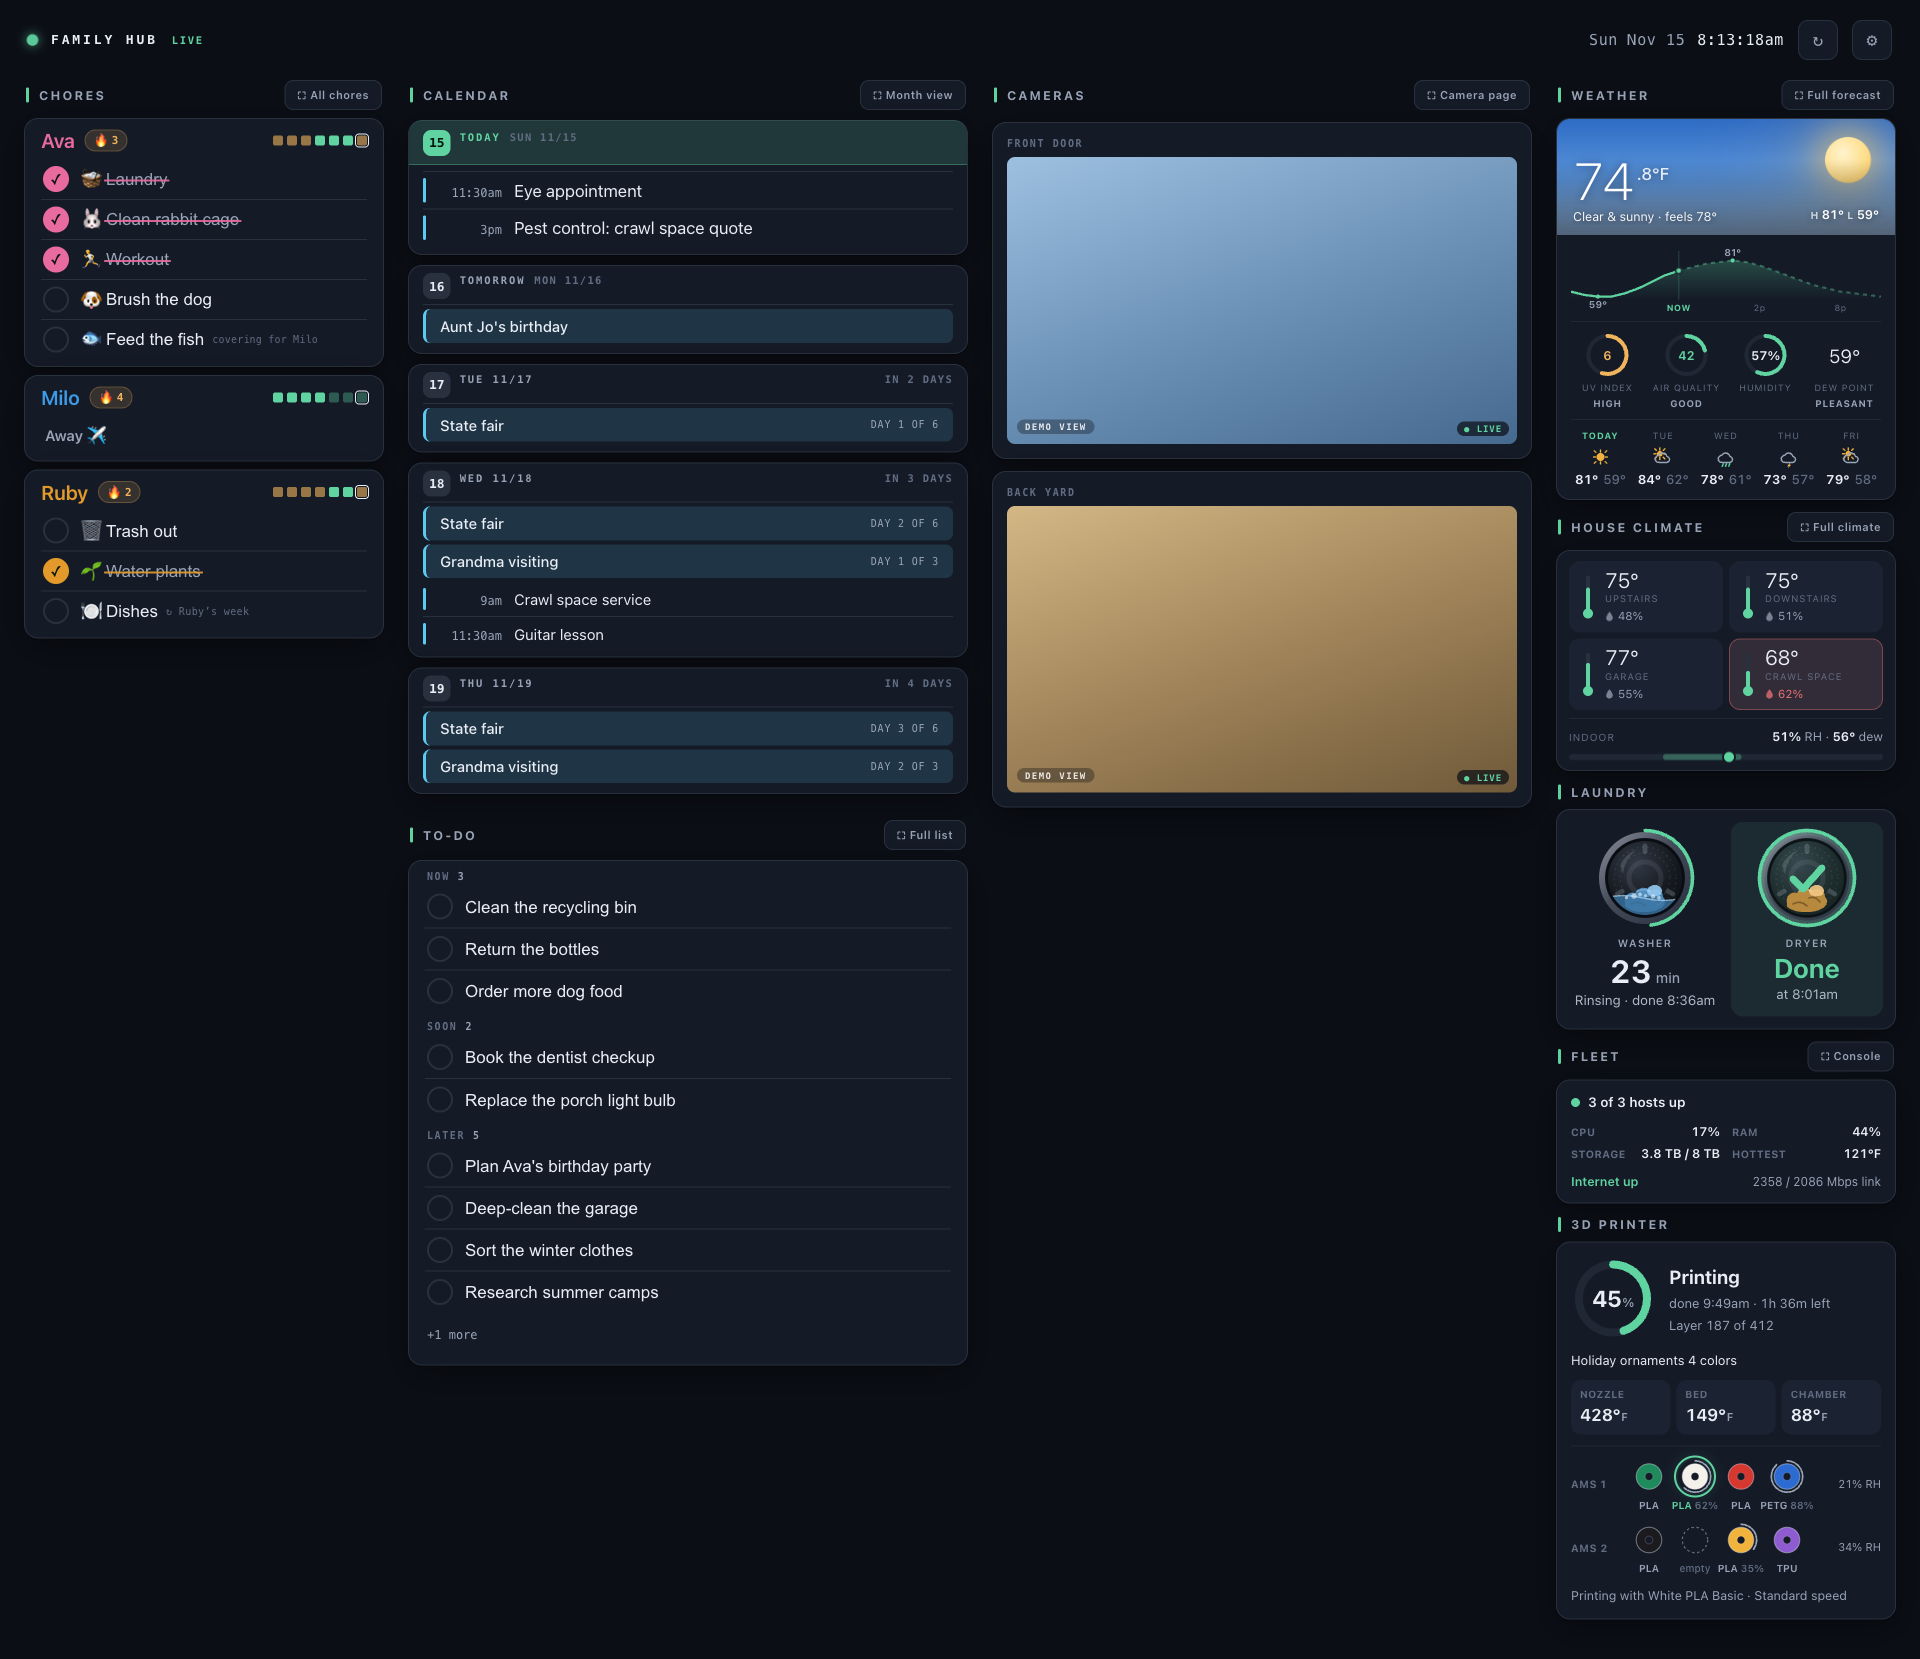
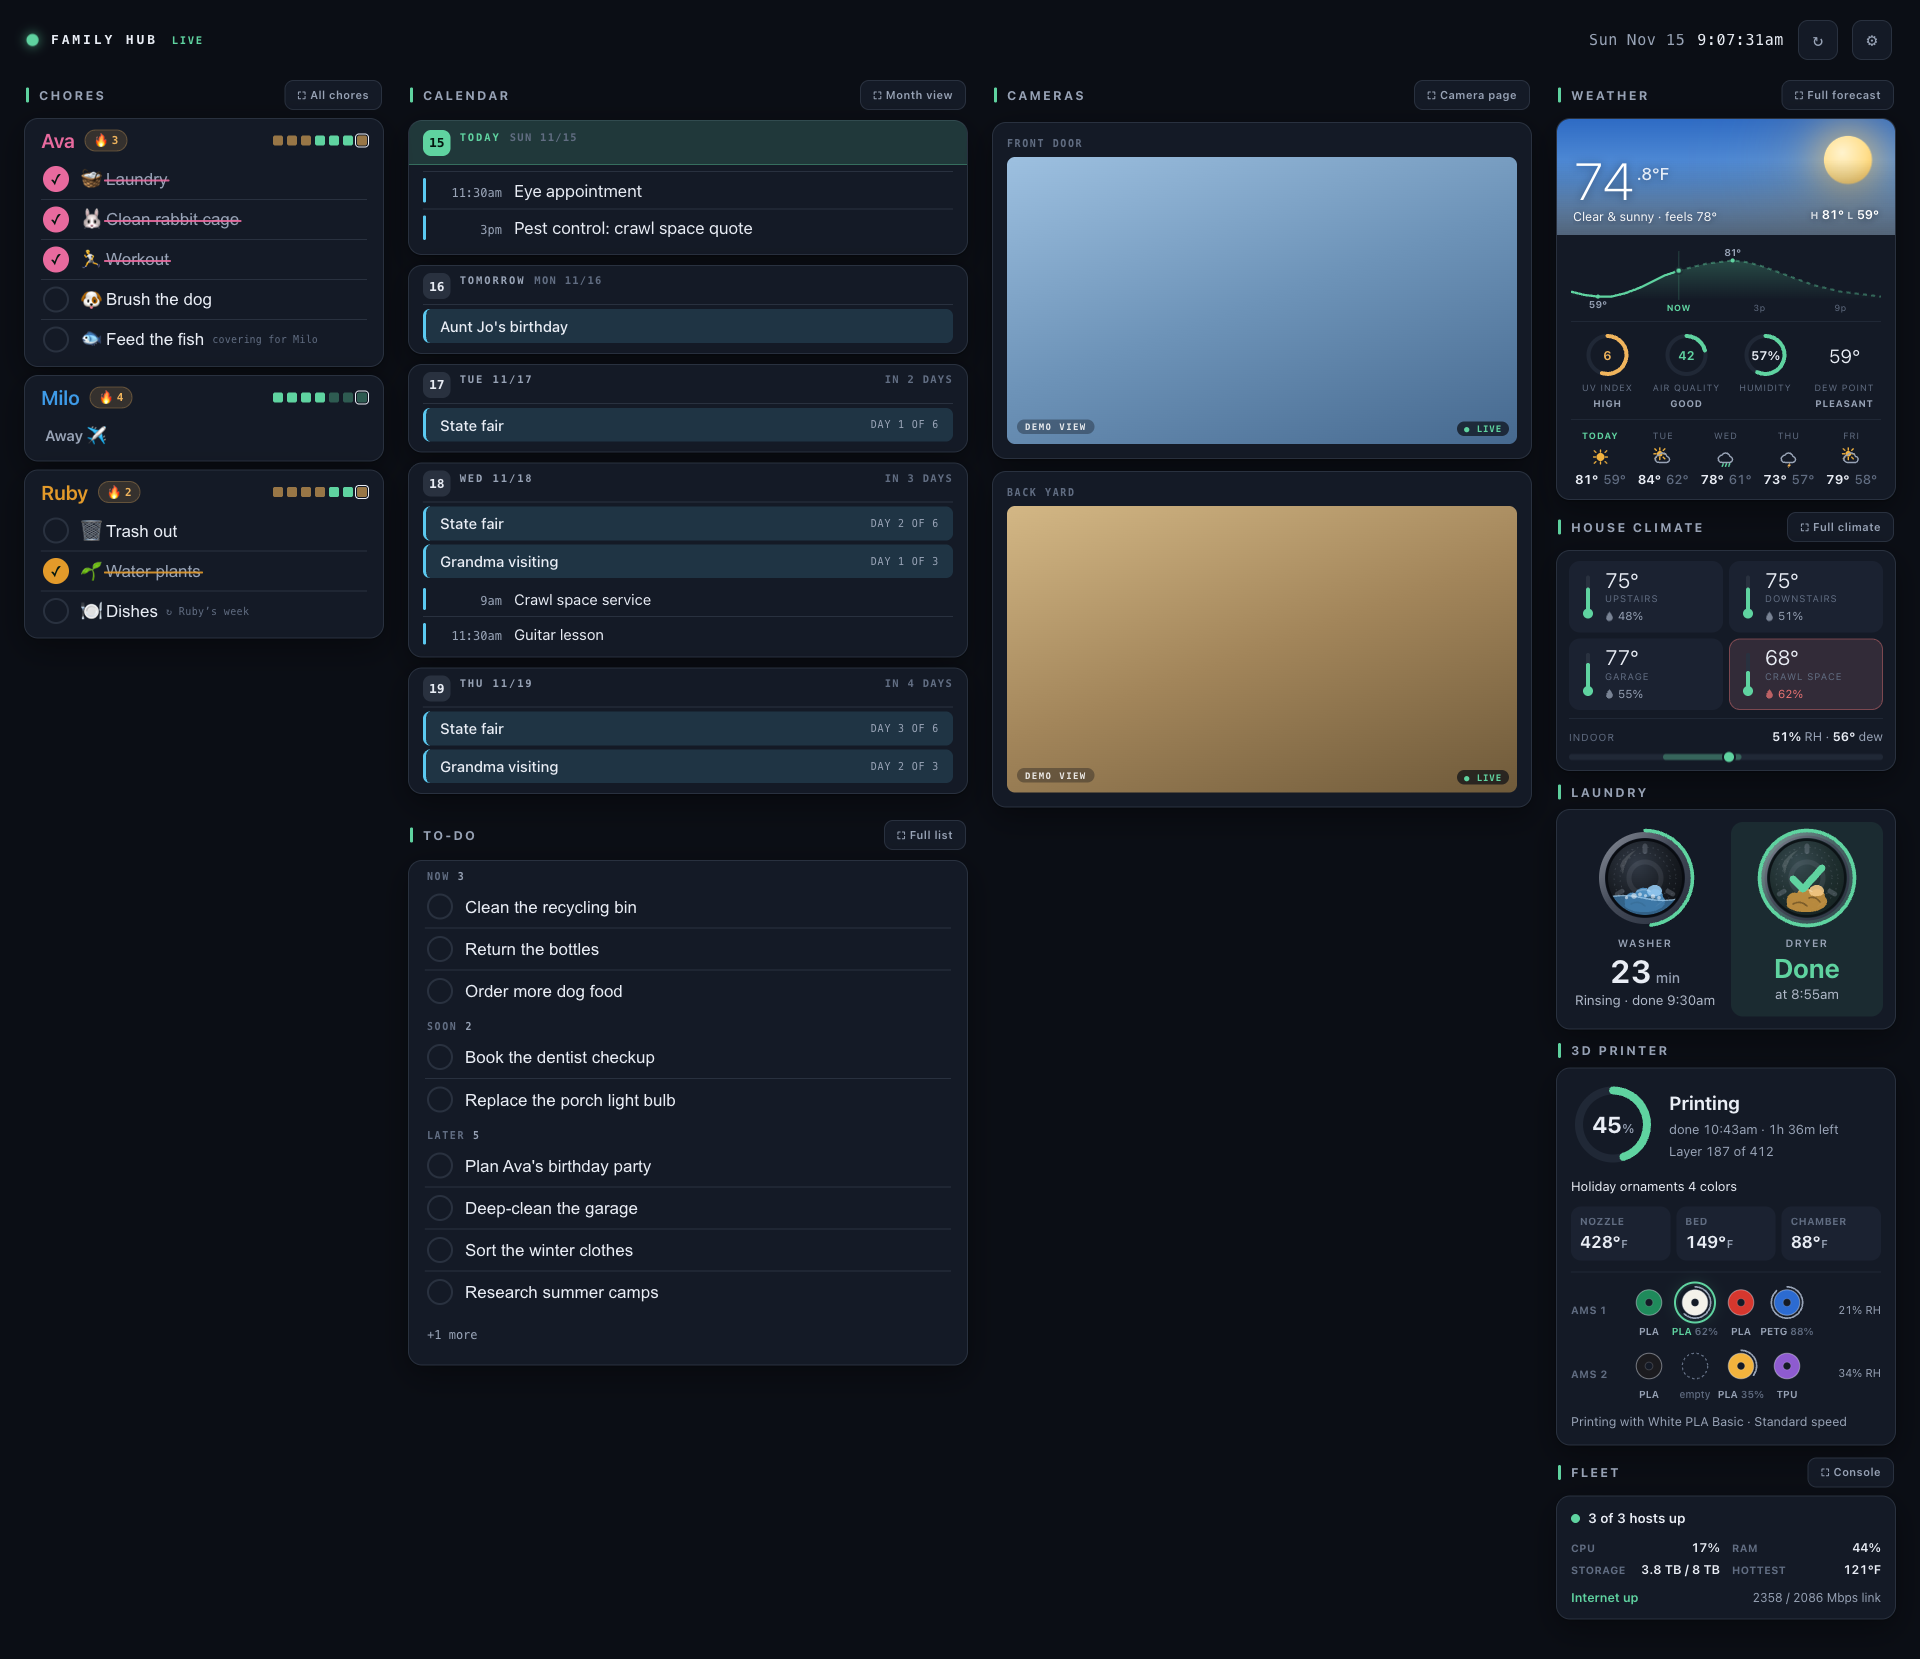
Printer card above the Fleet card
Owner's call: the printer is the card the family reads, so it sits above
the admin's Fleet card in the panels column (and on the phone's Weather
tab). The static guard pins the new order; README, CHANGELOG and
docs/hub.png follow.

Claude-Session: https://claude.ai/code/session_01VyTzhBxGcG27dAq1t99pnz

Changed region(s): [[0.8125, 0.6148, 1.0, 0.9837]]

diff --git a/src/family_hub/web/static/hub.js b/src/family_hub/web/static/hub.js
@@ -2743,13 +2743,15 @@ function buildPanels() {
       // covers its native card, appended once regardless of this entry.
       if (p.id === 'fleet') return '';
       return panelHtml(p);
-    }).join('') + laundrySlotHtml() + fleetSlotHtml() + printerSlotHtml();
+    // the printer sits ABOVE fleet (owner, 2026-11-15): it's the card the
+    // family reads; fleet is the admin's
+    }).join('') + laundrySlotHtml() + printerSlotHtml() + fleetSlotHtml();
   panelsBuilt = true;
   renderWeather();   // fill the just-built weather slot from cached data (if any)
   renderClimate();   // fill the just-built climate slot from cached data (if any)
   renderLaundry();   // fill the just-built laundry slot from cached data (if any)
-  renderFleet();     // fill the just-built fleet slot from cached data (if any)
-  renderPrinter();   // ...and the printer card under it, from the same data
+  renderPrinter();   // fill the just-built printer slot from cached data (if any)
+  renderFleet();     // ...and the fleet card under it, from the same data
 }
 
 function wirePanels() {
@@ -4075,7 +4077,7 @@ async function fetchFleet() {
 
 /* ---------------------------------------------------- native printer card */
 
-/* The 3D printer gets its own card under Fleet (owner's pick, 2026-11-15):
+/* The 3D printer gets its own card, above Fleet (owner's pick, 2026-11-15):
    a progress ring, when it will be done, layers, the three temperatures,
    and every AMS spool drawn in its real filament color with the one feeding
    the nozzle lit. It reads the same /api/tiles/fleet payload as the fleet
@@ -4330,7 +4332,7 @@ function printerCardHtml(fl, stale = false, now = Date.now()) {
     + `</article>`;
 }
 
-/* The printer slot rides the panels column right under Fleet, built
+/* The printer slot rides the panels column right above Fleet, built
    unconditionally like the fleet slot (an outage never freezes it away). */
 function printerSlotHtml() {
   return `<div class="printer-slot" id="printer-slot"></div>`;

diff --git a/src/family_hub/web/static/styles.css b/src/family_hub/web/static/styles.css
@@ -997,7 +997,7 @@ body {
 /* a stale last-good card is visibly dimmed (this is a health monitor — a
    riding-out-a-failure card must never look as pristine as a live one) */
 .fleet.is-stale { opacity: .62; }
-/* ------- native printer card (its own card under fleet, 2026-11-15) ------- */
+/* ------- native printer card (its own card above fleet, 2026-11-15) ------- */
 /* No motion by design: the ring and the spool rings are plain dash values,
    so there is nothing for prefers-reduced-motion to guard and nothing for
    the wall's Firefox to keep repainting. Every color is a theme token

diff --git a/tests/test_static.py b/tests/test_static.py
@@ -1383,7 +1383,7 @@ def test_fleet_card_static_guards():
     fc = re.search(r"function fleetCardHtml\(", hub)
     assert fc and "printer" not in hub[fc.start():hub.index("\n}\n", fc.start())].replace(
         "printerCardHtml", ""), "fleetCardHtml must not render printer data"
-    # the wall places fleet directly under laundry in the panels column
+    # the wall places fleet under laundry and the printer card in the panels column
     # (owner's placement intent); the phone rides the Weather tab since it
     # has no tab of its own ("no new tab" per the mobile gate) — the fleet
     # slot must NOT be excluded from the Weather tab the way laundry is.
@@ -1392,15 +1392,15 @@ def test_fleet_card_static_guards():
 
 
 def test_printer_card_static_guards():
-    """The printer card (its own card under fleet, 2026-11-15): its own
-    off-toggle hides it, its slot is built unconditionally right after the
+    """The printer card (its own card above fleet, 2026-11-15): its own
+    off-toggle hides it, its slot is built unconditionally right before the
     fleet slot, it repaints on every fleet poll, it keeps the panels column
     and the phone Weather tab alive on its own, and it never animates."""
     hub = (STATIC / "hub.js").read_text()
     assert re.search(r"body\.integ-off-printer[^\{]*#printer-slot[^\{]*\{[^}]*display:\s*none",
                      CSS), "printer-off must hide the printer slot"
-    assert "laundrySlotHtml() + fleetSlotHtml() + printerSlotHtml()" in hub, \
-        "the printer slot must be built unconditionally, right under fleet"
+    assert "laundrySlotHtml() + printerSlotHtml() + fleetSlotHtml()" in hub, \
+        "the printer slot must be built unconditionally, right above fleet (owner's order)"
     fetch = hub[hub.index("async function fetchFleet()"):]
     fetch = fetch[:fetch.index("\n}\n")]
     assert "renderPrinter();" in fetch, "every fleet poll must repaint the printer card"

diff --git a/README.md b/README.md
@@ -119,11 +119,11 @@ at one URL.
 - **Fleet Console:** an optional card proxying a separate home-lab dashboard's
   compact status rollup: a system-health line ("N of M hosts up", the worst
   problem in words when something's down), the vitals grid and the internet
-  line. Rides the panels column under Laundry on the wall and the Weather tab
+  line. Rides the panels column under the printer card on the wall and the Weather tab
   on the phone (no tab of its own). Tap **⛶ Console** to open the full
   dashboard full-screen, when configured. Fails soft like weather/climate;
   off entirely with no `fleet` config block.
-- **3D printer:** its own card under Fleet, from the same rollup (a Bambu Lab
+- **3D printer:** its own card above Fleet, from the same rollup (a Bambu Lab
   printer's live MQTT report, via the fleet console): a progress ring, when
   the print will be done, the layer count, nozzle / bed / chamber temps (with
   "heating to" while warming up), what the printer is busy with (changing

diff --git a/CHANGELOG.md b/CHANGELOG.md
@@ -10,6 +10,10 @@ rolls that section to a dated version via `python scripts/release.py`.
 
 ## [Unreleased]
 
+### Changed
+- The 3D printer card now sits above the Fleet card, where the family
+  looks first.
+
 ## [1.14.0] — 2026-11-15
 
 ### Added
